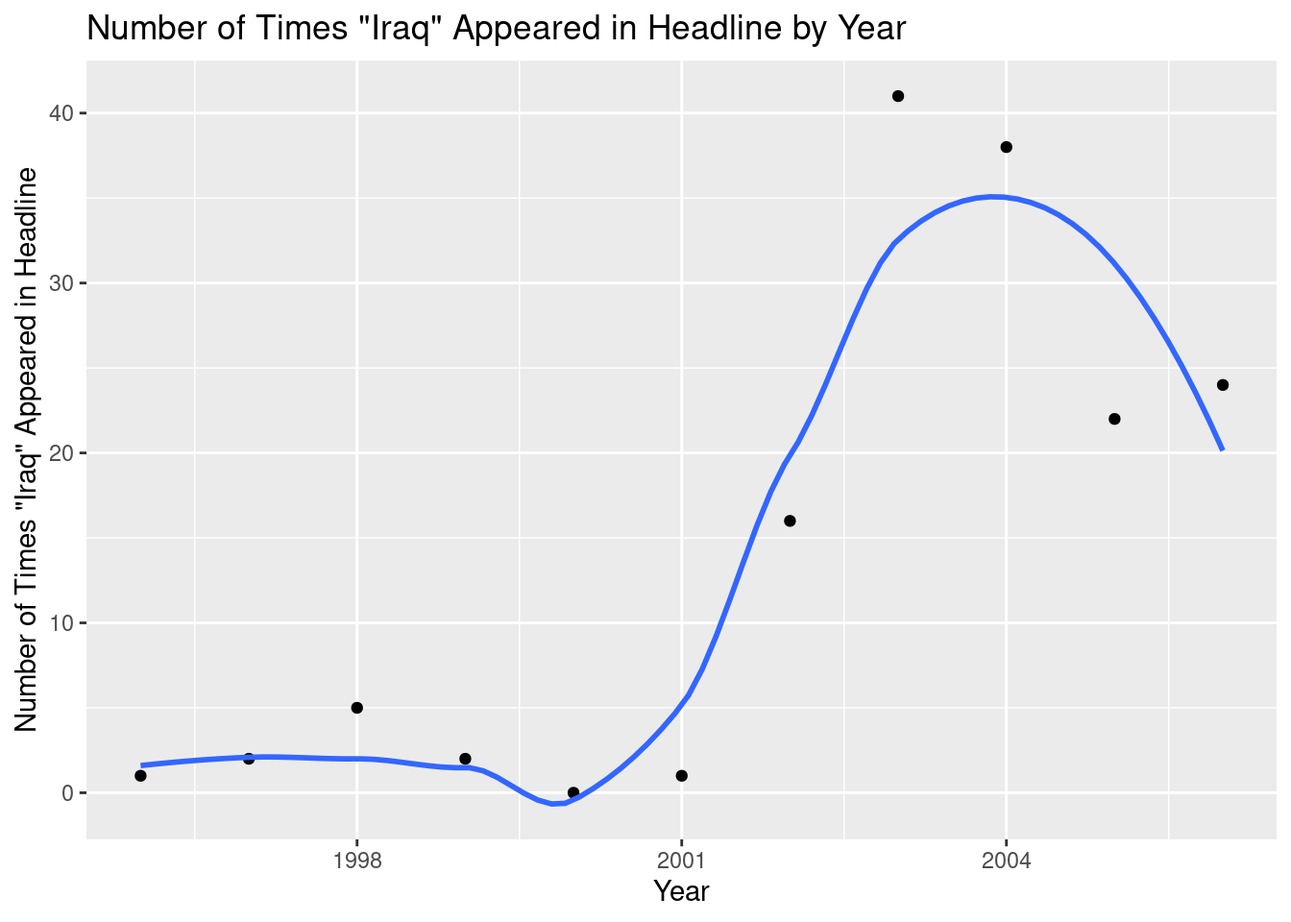
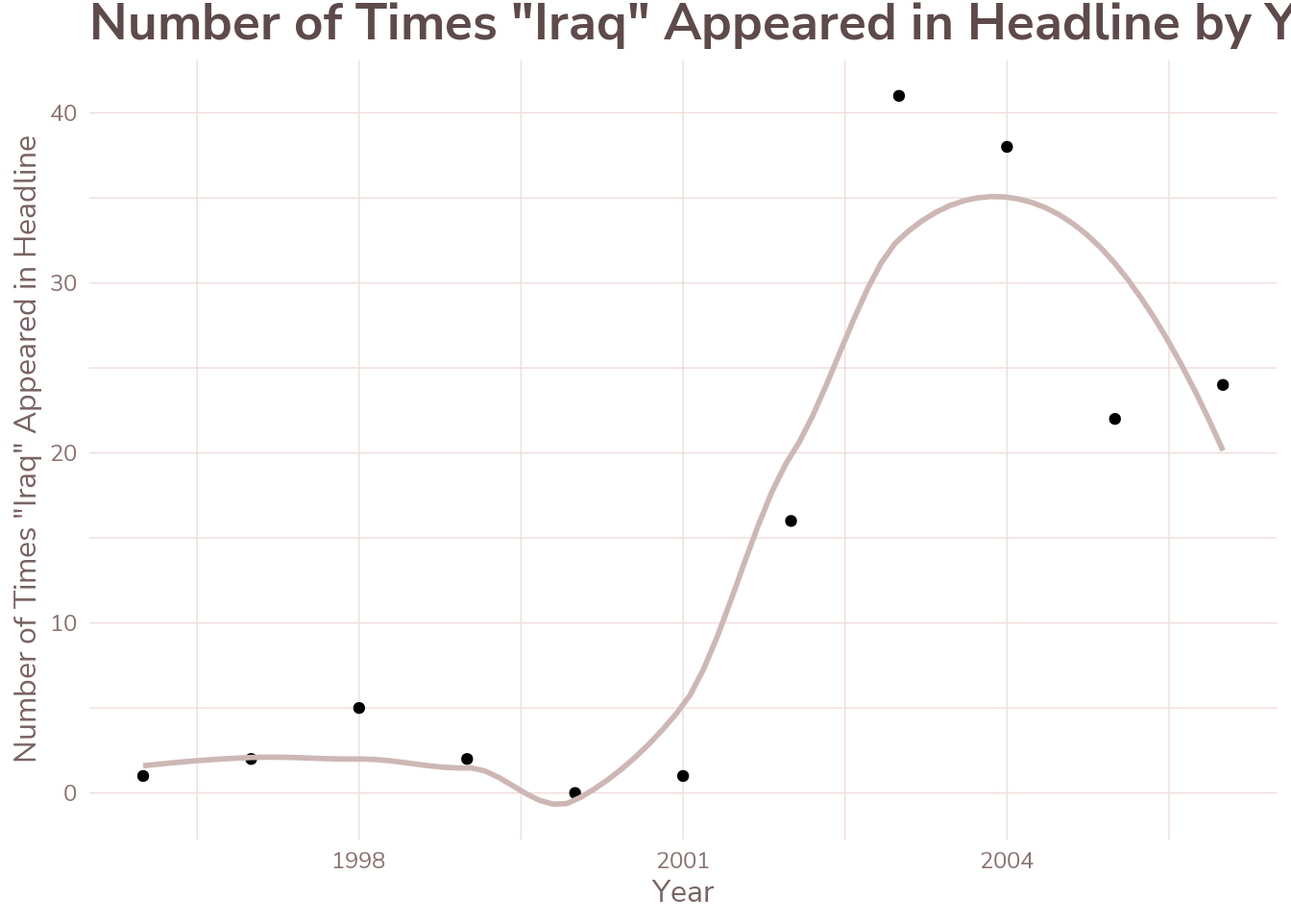
committ

diff --git a/docs/nytheadlines.html b/docs/nytheadlines.html
@@ -8,9 +8,9 @@
 
 <meta name="author" content="Anjali Suva">
 <meta name="dcterms.date" content="2025-10-06">
-<meta name="description" content="Analysis of NYTimes headlines from 1996 to 2005">
+<meta name="description" content="Analysis of NYT headlines from 1996 to 2005">
 
-<title>NYTimes Headlines – Anjali Suva</title>
+<title>NYT Headlines – Anjali Suva</title>
 <style>
 code{white-space: pre-wrap;}
 span.smallcaps{font-variant: small-caps;}
@@ -183,12 +183,12 @@ pre > code.sourceCode > span > a:first-child::before { text-decoration: underlin
 
 <header id="title-block-header" class="quarto-title-block default">
 <div class="quarto-title">
-<h1 class="title">NYTimes Headlines</h1>
+<h1 class="title">NYT Headlines</h1>
 </div>
 
 <div>
   <div class="description">
-    <p>Analysis of NYTimes headlines from 1996 to 2005</p>
+    <p>Analysis of NYT headlines from 1996 to 2005</p>
   </div>
 </div>
 
@@ -217,12 +217,17 @@ pre > code.sourceCode > span > a:first-child::before { text-decoration: underlin
 </header>
 
 
+<p>For this project, I used a data set containing containing string data to see if any interesting patterns could be identified by isolating text within the data set. The data set I used had headlines from The New York Times from 1996 to 2005, compiled by Professor Amber E. Boydstun at UC Davis. The data can be accessed through the RTextTools R package.</p>
 <div class="cell">
-<div class="sourceCode cell-code" id="cb1"><pre class="sourceCode r code-with-copy"><code class="sourceCode r"><span id="cb1-1"><a href="#cb1-1" aria-hidden="true" tabindex="-1"></a><span class="fu">library</span>(RTextTools) </span>
-<span id="cb1-2"><a href="#cb1-2" aria-hidden="true" tabindex="-1"></a><span class="fu">library</span>(tidyverse)</span>
-<span id="cb1-3"><a href="#cb1-3" aria-hidden="true" tabindex="-1"></a></span>
-<span id="cb1-4"><a href="#cb1-4" aria-hidden="true" tabindex="-1"></a><span class="fu">data</span>(NYTimes)</span>
-<span id="cb1-5"><a href="#cb1-5" aria-hidden="true" tabindex="-1"></a><span class="fu">as_tibble</span>(NYTimes)</span></code><button title="Copy to Clipboard" class="code-copy-button"><i class="bi"></i></button></pre></div>
+<details class="code-fold">
+<summary>Show the code</summary>
+<div class="sourceCode cell-code" id="cb1"><pre class="sourceCode r code-with-copy"><code class="sourceCode r"><span id="cb1-1"><a href="#cb1-1" aria-hidden="true" tabindex="-1"></a><span class="co">#load R packages + data</span></span>
+<span id="cb1-2"><a href="#cb1-2" aria-hidden="true" tabindex="-1"></a><span class="fu">library</span>(RTextTools) </span>
+<span id="cb1-3"><a href="#cb1-3" aria-hidden="true" tabindex="-1"></a><span class="fu">library</span>(tidyverse)</span>
+<span id="cb1-4"><a href="#cb1-4" aria-hidden="true" tabindex="-1"></a></span>
+<span id="cb1-5"><a href="#cb1-5" aria-hidden="true" tabindex="-1"></a><span class="fu">data</span>(NYTimes)</span>
+<span id="cb1-6"><a href="#cb1-6" aria-hidden="true" tabindex="-1"></a><span class="fu">as_tibble</span>(NYTimes)</span></code><button title="Copy to Clipboard" class="code-copy-button"><i class="bi"></i></button></pre></div>
+</details>
 <div class="cell-output cell-output-stdout">
 <pre><code># A tibble: 3,104 × 5
    Article_ID Date      Title                                 Subject Topic.Code
@@ -240,14 +245,15 @@ pre > code.sourceCode > span > a:first-child::before { text-decoration: underlin
 # ℹ 3,094 more rows</code></pre>
 </div>
 </div>
-<p>With the increase in citizens obtaining their news online, I wondered if the title length for articles had shortened over time to fit these new mediums. For my first question, I wanted to investigate whether or not the average length of New York Times article titles has changed over time.</p>
-<p>In order to do this analysis, I used str_length to obtain the number of characters in each article title.</p>
-<p><br>
+<p>Since the time period in this data set coincides with the surge in popularity of the World Wide Web, I wondered if major news outlets began placing their articles online during these years. For my first question, I wanted to investigate whether or not the average length of New York Times article titles changed over time to fit the new medium.</p>
+<p>In order to do this analysis, I used str_length to obtain the number of characters in each article title.<br>
 </p>
 <div class="cell">
+<details class="code-fold">
+<summary>Show the code</summary>
 <div class="sourceCode cell-code" id="cb3"><pre class="sourceCode r code-with-copy"><code class="sourceCode r"><span id="cb3-1"><a href="#cb3-1" aria-hidden="true" tabindex="-1"></a><span class="fu">library</span>(lubridate)</span>
 <span id="cb3-2"><a href="#cb3-2" aria-hidden="true" tabindex="-1"></a></span>
-<span id="cb3-3"><a href="#cb3-3" aria-hidden="true" tabindex="-1"></a></span>
+<span id="cb3-3"><a href="#cb3-3" aria-hidden="true" tabindex="-1"></a><span class="co">#create df for average length of nyt article titles </span></span>
 <span id="cb3-4"><a href="#cb3-4" aria-hidden="true" tabindex="-1"></a>AvgTitleLength <span class="ot">&lt;-</span> NYTimes <span class="sc">|&gt;</span></span>
 <span id="cb3-5"><a href="#cb3-5" aria-hidden="true" tabindex="-1"></a>  <span class="fu">mutate</span>(<span class="at">TitleLength =</span> <span class="fu">str_length</span>(Title), </span>
 <span id="cb3-6"><a href="#cb3-6" aria-hidden="true" tabindex="-1"></a>         <span class="at">Year =</span> <span class="fu">year</span>(<span class="fu">dmy</span>(Date))) <span class="sc">|&gt;</span></span>
@@ -256,6 +262,7 @@ pre > code.sourceCode > span > a:first-child::before { text-decoration: underlin
 <span id="cb3-9"><a href="#cb3-9" aria-hidden="true" tabindex="-1"></a>  <span class="fu">select</span>(Year, AvgTitleLength)</span>
 <span id="cb3-10"><a href="#cb3-10" aria-hidden="true" tabindex="-1"></a></span>
 <span id="cb3-11"><a href="#cb3-11" aria-hidden="true" tabindex="-1"></a><span class="fu">as_tibble</span>(AvgTitleLength)</span></code><button title="Copy to Clipboard" class="code-copy-button"><i class="bi"></i></button></pre></div>
+</details>
 <div class="cell-output cell-output-stdout">
 <pre><code># A tibble: 11 × 2
     Year AvgTitleLength
@@ -274,32 +281,43 @@ pre > code.sourceCode > span > a:first-child::before { text-decoration: underlin
 </div>
 </div>
 <div class="cell">
-<div class="sourceCode cell-code" id="cb5"><pre class="sourceCode r code-with-copy"><code class="sourceCode r"><span id="cb5-1"><a href="#cb5-1" aria-hidden="true" tabindex="-1"></a><span class="fu">library</span>(ggplot2)</span>
-<span id="cb5-2"><a href="#cb5-2" aria-hidden="true" tabindex="-1"></a></span>
-<span id="cb5-3"><a href="#cb5-3" aria-hidden="true" tabindex="-1"></a><span class="fu">ggplot</span>(AvgTitleLength, <span class="fu">aes</span>(<span class="at">x =</span> Year, <span class="at">y =</span> AvgTitleLength)) <span class="sc">+</span></span>
-<span id="cb5-4"><a href="#cb5-4" aria-hidden="true" tabindex="-1"></a>  <span class="fu">geom_col</span>() <span class="sc">+</span></span>
-<span id="cb5-5"><a href="#cb5-5" aria-hidden="true" tabindex="-1"></a>  <span class="fu">labs</span>(<span class="at">title =</span> <span class="st">"Average NYTimes Article Title Length by Year"</span>,</span>
-<span id="cb5-6"><a href="#cb5-6" aria-hidden="true" tabindex="-1"></a>       <span class="at">x =</span> <span class="st">"Year"</span>,</span>
-<span id="cb5-7"><a href="#cb5-7" aria-hidden="true" tabindex="-1"></a>       <span class="at">y =</span> <span class="st">"Average Title Length (in characters)"</span>)</span></code><button title="Copy to Clipboard" class="code-copy-button"><i class="bi"></i></button></pre></div>
+<details class="code-fold">
+<summary>Show the code</summary>
+<div class="sourceCode cell-code" id="cb5"><pre class="sourceCode r code-with-copy"><code class="sourceCode r"><span id="cb5-1"><a href="#cb5-1" aria-hidden="true" tabindex="-1"></a><span class="co">#loading ggplot and my custom theme</span></span>
+<span id="cb5-2"><a href="#cb5-2" aria-hidden="true" tabindex="-1"></a><span class="fu">library</span>(ggplot2)</span>
+<span id="cb5-3"><a href="#cb5-3" aria-hidden="true" tabindex="-1"></a><span class="fu">source</span>(<span class="st">"R/theme_asuva.R"</span>)</span>
+<span id="cb5-4"><a href="#cb5-4" aria-hidden="true" tabindex="-1"></a></span>
+<span id="cb5-5"><a href="#cb5-5" aria-hidden="true" tabindex="-1"></a><span class="co">#create bar chart of avg NYT article title length </span></span>
+<span id="cb5-6"><a href="#cb5-6" aria-hidden="true" tabindex="-1"></a><span class="fu">ggplot</span>(AvgTitleLength, <span class="fu">aes</span>(<span class="at">x =</span> Year, <span class="at">y =</span> AvgTitleLength)) <span class="sc">+</span></span>
+<span id="cb5-7"><a href="#cb5-7" aria-hidden="true" tabindex="-1"></a>  <span class="fu">geom_col</span>(<span class="at">fill =</span> <span class="st">"mistyrose3"</span>) <span class="sc">+</span></span>
+<span id="cb5-8"><a href="#cb5-8" aria-hidden="true" tabindex="-1"></a>  <span class="fu">labs</span>(<span class="at">title =</span> <span class="st">"Average NYTimes Article Title Length by Year"</span>,</span>
+<span id="cb5-9"><a href="#cb5-9" aria-hidden="true" tabindex="-1"></a>       <span class="at">x =</span> <span class="st">"Year"</span>,</span>
+<span id="cb5-10"><a href="#cb5-10" aria-hidden="true" tabindex="-1"></a>       <span class="at">y =</span> <span class="st">"Average Title Length (in characters)"</span>) <span class="sc">+</span></span>
+<span id="cb5-11"><a href="#cb5-11" aria-hidden="true" tabindex="-1"></a>  <span class="fu">theme_asuva</span>()</span></code><button title="Copy to Clipboard" class="code-copy-button"><i class="bi"></i></button></pre></div>
+</details>
 <div class="cell-output-display">
 <div>
 <figure class="figure">
-<p><img src="nytheadlines_files/figure-html/unnamed-chunk-3-1.png" class="img-fluid figure-img" width="672"></p>
+<p><img src="nytheadlines_files/figure-html/unnamed-chunk-3-1.png" class="img-fluid figure-img" alt="Bar chart of average NYT article title length by year, from 1996 to 2005." width="672"></p>
 </figure>
 </div>
 </div>
 </div>
 <p>From the graph above, it is clear that there is not much of a trend in the average title length over time. From 1996 to 2005, the average length of NYTimes article titles have been between 40 to 57 characters. The average length tends to fluctuate by each year, but there aren’t enough years in the data set to identify a concrete downward trend in the length of the titles.</p>
-<p>Taking the limited sample size for year into account, I wanted to search for something more specific—a trend that was more likely to show up on a graph. Since the years included on the dataset were from the range 1996-2005, I was interested in the number of times “Iraq” was mentioned in a headline, considering that the Iraq War began in 2003. I predict that there would be a sharp upturn in the number of times Iraq was mentioned after 2001, with 2003 being the year when it was mentioned the most.</p>
-<p>In order to do this analysis, I used str_detect along with the regular expression (?i) to account for capitalized vs.&nbsp;non-capitalized headlines in the dataset.</p>
+<p>Taking the limited sample size for year into account, I wanted to search for something more specific—a trend that was more likely to show up on a graph. Since the years included on the data set were from the range 1996-2005, I was interested in the number of times “Iraq” was mentioned in a headline, considering that the Iraq War began in 2003. I predict that there would be a sharp upturn in the number of times Iraq was mentioned after 2001, with 2003 being the year when it was mentioned the most.</p>
+<p>In order to do this analysis, I used str_detect along with the regular expression (?i) to account for capitalized vs.&nbsp;non-capitalized headlines in the data set.</p>
 <div class="cell">
-<div class="sourceCode cell-code" id="cb6"><pre class="sourceCode r code-with-copy"><code class="sourceCode r"><span id="cb6-1"><a href="#cb6-1" aria-hidden="true" tabindex="-1"></a>IraqHeadlines <span class="ot">&lt;-</span> NYTimes <span class="sc">|&gt;</span> </span>
-<span id="cb6-2"><a href="#cb6-2" aria-hidden="true" tabindex="-1"></a>  <span class="fu">mutate</span>(<span class="at">Year =</span> <span class="fu">year</span>(<span class="fu">dmy</span>(Date))) <span class="sc">|&gt;</span></span>
-<span id="cb6-3"><a href="#cb6-3" aria-hidden="true" tabindex="-1"></a>  <span class="fu">group_by</span>(Year) <span class="sc">|&gt;</span></span>
-<span id="cb6-4"><a href="#cb6-4" aria-hidden="true" tabindex="-1"></a>  <span class="fu">summarize</span>(<span class="at">IraqinTitle =</span> <span class="fu">sum</span>(<span class="fu">str_detect</span>(Title, <span class="st">"(?i)Iraq"</span>))) <span class="sc">|&gt;</span></span>
-<span id="cb6-5"><a href="#cb6-5" aria-hidden="true" tabindex="-1"></a>  <span class="fu">select</span>(Year, IraqinTitle)</span>
-<span id="cb6-6"><a href="#cb6-6" aria-hidden="true" tabindex="-1"></a></span>
-<span id="cb6-7"><a href="#cb6-7" aria-hidden="true" tabindex="-1"></a><span class="fu">as_tibble</span>(IraqHeadlines)</span></code><button title="Copy to Clipboard" class="code-copy-button"><i class="bi"></i></button></pre></div>
+<details class="code-fold">
+<summary>Show the code</summary>
+<div class="sourceCode cell-code" id="cb6"><pre class="sourceCode r code-with-copy"><code class="sourceCode r"><span id="cb6-1"><a href="#cb6-1" aria-hidden="true" tabindex="-1"></a><span class="co">#create tibble of number of times Iraq appeared in headline title</span></span>
+<span id="cb6-2"><a href="#cb6-2" aria-hidden="true" tabindex="-1"></a>IraqHeadlines <span class="ot">&lt;-</span> NYTimes <span class="sc">|&gt;</span> </span>
+<span id="cb6-3"><a href="#cb6-3" aria-hidden="true" tabindex="-1"></a>  <span class="fu">mutate</span>(<span class="at">Year =</span> <span class="fu">year</span>(<span class="fu">dmy</span>(Date))) <span class="sc">|&gt;</span></span>
+<span id="cb6-4"><a href="#cb6-4" aria-hidden="true" tabindex="-1"></a>  <span class="fu">group_by</span>(Year) <span class="sc">|&gt;</span></span>
+<span id="cb6-5"><a href="#cb6-5" aria-hidden="true" tabindex="-1"></a>  <span class="fu">summarize</span>(<span class="at">IraqinTitle =</span> <span class="fu">sum</span>(<span class="fu">str_detect</span>(Title, <span class="st">"(?i)Iraq"</span>))) <span class="sc">|&gt;</span></span>
+<span id="cb6-6"><a href="#cb6-6" aria-hidden="true" tabindex="-1"></a>  <span class="fu">select</span>(Year, IraqinTitle)</span>
+<span id="cb6-7"><a href="#cb6-7" aria-hidden="true" tabindex="-1"></a></span>
+<span id="cb6-8"><a href="#cb6-8" aria-hidden="true" tabindex="-1"></a><span class="fu">as_tibble</span>(IraqHeadlines)</span></code><button title="Copy to Clipboard" class="code-copy-button"><i class="bi"></i></button></pre></div>
+</details>
 <div class="cell-output cell-output-stdout">
 <pre><code># A tibble: 11 × 2
     Year IraqinTitle
@@ -318,16 +336,21 @@ pre > code.sourceCode > span > a:first-child::before { text-decoration: underlin
 </div>
 </div>
 <div class="cell">
-<div class="sourceCode cell-code" id="cb8"><pre class="sourceCode r code-with-copy"><code class="sourceCode r"><span id="cb8-1"><a href="#cb8-1" aria-hidden="true" tabindex="-1"></a><span class="fu">ggplot</span>(IraqHeadlines, <span class="fu">aes</span>(<span class="at">x =</span> Year, <span class="at">y =</span> IraqinTitle)) <span class="sc">+</span></span>
-<span id="cb8-2"><a href="#cb8-2" aria-hidden="true" tabindex="-1"></a>  <span class="fu">geom_point</span>() <span class="sc">+</span></span>
-<span id="cb8-3"><a href="#cb8-3" aria-hidden="true" tabindex="-1"></a>  <span class="fu">geom_smooth</span>(<span class="at">se =</span> <span class="cn">FALSE</span>) <span class="sc">+</span></span>
-<span id="cb8-4"><a href="#cb8-4" aria-hidden="true" tabindex="-1"></a>  <span class="fu">labs</span>(<span class="at">title =</span> <span class="st">"Number of Times </span><span class="sc">\"</span><span class="st">Iraq</span><span class="sc">\"</span><span class="st"> Appeared in Headline by Year"</span>,</span>
-<span id="cb8-5"><a href="#cb8-5" aria-hidden="true" tabindex="-1"></a>       <span class="at">x =</span> <span class="st">"Year"</span>,</span>
-<span id="cb8-6"><a href="#cb8-6" aria-hidden="true" tabindex="-1"></a>       <span class="at">y =</span> <span class="st">"Number of Times </span><span class="sc">\"</span><span class="st">Iraq</span><span class="sc">\"</span><span class="st"> Appeared in Headline"</span>)</span></code><button title="Copy to Clipboard" class="code-copy-button"><i class="bi"></i></button></pre></div>
+<details class="code-fold">
+<summary>Show the code</summary>
+<div class="sourceCode cell-code" id="cb8"><pre class="sourceCode r code-with-copy"><code class="sourceCode r"><span id="cb8-1"><a href="#cb8-1" aria-hidden="true" tabindex="-1"></a><span class="co">#graph previous tibble</span></span>
+<span id="cb8-2"><a href="#cb8-2" aria-hidden="true" tabindex="-1"></a><span class="fu">ggplot</span>(IraqHeadlines, <span class="fu">aes</span>(<span class="at">x =</span> Year, <span class="at">y =</span> IraqinTitle)) <span class="sc">+</span></span>
+<span id="cb8-3"><a href="#cb8-3" aria-hidden="true" tabindex="-1"></a>  <span class="fu">geom_point</span>() <span class="sc">+</span></span>
+<span id="cb8-4"><a href="#cb8-4" aria-hidden="true" tabindex="-1"></a>  <span class="fu">geom_smooth</span>(<span class="at">se =</span> <span class="cn">FALSE</span>, <span class="at">color =</span> <span class="st">"mistyrose3"</span>) <span class="sc">+</span></span>
+<span id="cb8-5"><a href="#cb8-5" aria-hidden="true" tabindex="-1"></a>  <span class="fu">labs</span>(<span class="at">title =</span> <span class="st">"Number of Times </span><span class="sc">\"</span><span class="st">Iraq</span><span class="sc">\"</span><span class="st"> Appeared in Headline by Year"</span>,</span>
+<span id="cb8-6"><a href="#cb8-6" aria-hidden="true" tabindex="-1"></a>       <span class="at">x =</span> <span class="st">"Year"</span>,</span>
+<span id="cb8-7"><a href="#cb8-7" aria-hidden="true" tabindex="-1"></a>       <span class="at">y =</span> <span class="st">"Number of Times </span><span class="sc">\"</span><span class="st">Iraq</span><span class="sc">\"</span><span class="st"> Appeared in Headline"</span>) <span class="sc">+</span></span>
+<span id="cb8-8"><a href="#cb8-8" aria-hidden="true" tabindex="-1"></a>  <span class="fu">theme_asuva</span>()</span></code><button title="Copy to Clipboard" class="code-copy-button"><i class="bi"></i></button></pre></div>
+</details>
 <div class="cell-output-display">
 <div>
 <figure class="figure">
-<p><img src="nytheadlines_files/figure-html/unnamed-chunk-5-1.png" class="img-fluid figure-img" width="672"></p>
+<p><img src="nytheadlines_files/figure-html/unnamed-chunk-5-1.png" class="img-fluid figure-img" alt="Line chart of number of times 'Iraq' Appeared in NYT headlines by year, from 1996 to 2005." width="672"></p>
 </figure>
 </div>
 </div>
@@ -336,17 +359,21 @@ pre > code.sourceCode > span > a:first-child::before { text-decoration: underlin
 <p>Since the previous plot yielded expected results, I wondered how else I could utilize key words within the data set. While parsing through some of the headlines in the original NYTimes dataset, I noticed that certain titles would begin with a key word/phrase and a colon. For example, take this title from the dataset, “CRASH IN THE BALKANS: THE RESCUE; A Storm-Swept Mountain’s Grim Story.” The phrase “CRASH IN THE BALKANS” serves as a signifier to introduce the main subject matter of the story. I wanted to see how many of these key words or phrases existed within the data set.</p>
 <p>To do this analysis, I used str_detect to filter for rows with colons and str_extract with a lookahead to extract everything up to the colon.</p>
 <div class="cell">
-<div class="sourceCode cell-code" id="cb9"><pre class="sourceCode r code-with-copy"><code class="sourceCode r"><span id="cb9-1"><a href="#cb9-1" aria-hidden="true" tabindex="-1"></a>KeyPhrasesinTitle <span class="ot">&lt;-</span> NYTimes <span class="sc">|&gt;</span></span>
-<span id="cb9-2"><a href="#cb9-2" aria-hidden="true" tabindex="-1"></a>  <span class="fu">filter</span>(<span class="fu">str_detect</span>(Title, <span class="st">":"</span>)) <span class="sc">|&gt;</span></span>
-<span id="cb9-3"><a href="#cb9-3" aria-hidden="true" tabindex="-1"></a>  <span class="fu">mutate</span>(<span class="at">KeyPhrase =</span> <span class="fu">str_extract</span>(Title, <span class="st">".+(?=:)"</span>)) <span class="sc">|&gt;</span></span>
-<span id="cb9-4"><a href="#cb9-4" aria-hidden="true" tabindex="-1"></a>  <span class="fu">filter</span>(<span class="sc">!</span><span class="fu">is.na</span>(KeyPhrase)) <span class="sc">|&gt;</span></span>
-<span id="cb9-5"><a href="#cb9-5" aria-hidden="true" tabindex="-1"></a>  <span class="fu">group_by</span>(KeyPhrase) <span class="sc">|&gt;</span></span>
-<span id="cb9-6"><a href="#cb9-6" aria-hidden="true" tabindex="-1"></a>  <span class="fu">summarize</span>(<span class="at">KeyPhraseTotal =</span> <span class="fu">n</span>()) <span class="sc">|&gt;</span></span>
-<span id="cb9-7"><a href="#cb9-7" aria-hidden="true" tabindex="-1"></a>  <span class="fu">select</span>(KeyPhrase, KeyPhraseTotal) <span class="sc">|&gt;</span></span>
-<span id="cb9-8"><a href="#cb9-8" aria-hidden="true" tabindex="-1"></a>  <span class="fu">arrange</span>(<span class="fu">desc</span>(KeyPhraseTotal))</span>
-<span id="cb9-9"><a href="#cb9-9" aria-hidden="true" tabindex="-1"></a></span>
+<details class="code-fold">
+<summary>Show the code</summary>
+<div class="sourceCode cell-code" id="cb9"><pre class="sourceCode r code-with-copy"><code class="sourceCode r"><span id="cb9-1"><a href="#cb9-1" aria-hidden="true" tabindex="-1"></a><span class="co">#create df to extract key words in title </span></span>
+<span id="cb9-2"><a href="#cb9-2" aria-hidden="true" tabindex="-1"></a>KeyPhrasesinTitle <span class="ot">&lt;-</span> NYTimes <span class="sc">|&gt;</span></span>
+<span id="cb9-3"><a href="#cb9-3" aria-hidden="true" tabindex="-1"></a>  <span class="fu">filter</span>(<span class="fu">str_detect</span>(Title, <span class="st">":"</span>)) <span class="sc">|&gt;</span></span>
+<span id="cb9-4"><a href="#cb9-4" aria-hidden="true" tabindex="-1"></a>  <span class="fu">mutate</span>(<span class="at">KeyPhrase =</span> <span class="fu">str_extract</span>(Title, <span class="st">".+(?=:)"</span>)) <span class="sc">|&gt;</span></span>
+<span id="cb9-5"><a href="#cb9-5" aria-hidden="true" tabindex="-1"></a>  <span class="fu">filter</span>(<span class="sc">!</span><span class="fu">is.na</span>(KeyPhrase)) <span class="sc">|&gt;</span></span>
+<span id="cb9-6"><a href="#cb9-6" aria-hidden="true" tabindex="-1"></a>  <span class="fu">group_by</span>(KeyPhrase) <span class="sc">|&gt;</span></span>
+<span id="cb9-7"><a href="#cb9-7" aria-hidden="true" tabindex="-1"></a>  <span class="fu">summarize</span>(<span class="at">KeyPhraseTotal =</span> <span class="fu">n</span>()) <span class="sc">|&gt;</span></span>
+<span id="cb9-8"><a href="#cb9-8" aria-hidden="true" tabindex="-1"></a>  <span class="fu">select</span>(KeyPhrase, KeyPhraseTotal) <span class="sc">|&gt;</span></span>
+<span id="cb9-9"><a href="#cb9-9" aria-hidden="true" tabindex="-1"></a>  <span class="fu">arrange</span>(<span class="fu">desc</span>(KeyPhraseTotal))</span>
 <span id="cb9-10"><a href="#cb9-10" aria-hidden="true" tabindex="-1"></a></span>
-<span id="cb9-11"><a href="#cb9-11" aria-hidden="true" tabindex="-1"></a><span class="fu">as_tibble</span>(KeyPhrasesinTitle)</span></code><button title="Copy to Clipboard" class="code-copy-button"><i class="bi"></i></button></pre></div>
+<span id="cb9-11"><a href="#cb9-11" aria-hidden="true" tabindex="-1"></a></span>
+<span id="cb9-12"><a href="#cb9-12" aria-hidden="true" tabindex="-1"></a><span class="fu">as_tibble</span>(KeyPhrasesinTitle)</span></code><button title="Copy to Clipboard" class="code-copy-button"><i class="bi"></i></button></pre></div>
+</details>
 <div class="cell-output cell-output-stdout">
 <pre><code># A tibble: 265 × 2
    KeyPhrase              KeyPhraseTotal
@@ -368,17 +395,21 @@ pre > code.sourceCode > span > a:first-child::before { text-decoration: underlin
 <p>While examining the new table, I wondered if I could filter the data even more so I could find key words in the title (as opposed to phrases). For example “POLITICS” is one of the most common introductory words in the titles of articles, with 21 instances of it occurring.</p>
 <p>In order to do this analysis, I slightly altered the code above to account for only words as opposed to words and phrases. To do this, I used the regular expressions of “^” and “\w” to filter for rows that started with a word followed directly by a colon.</p>
 <div class="cell">
-<div class="sourceCode cell-code" id="cb11"><pre class="sourceCode r code-with-copy"><code class="sourceCode r"><span id="cb11-1"><a href="#cb11-1" aria-hidden="true" tabindex="-1"></a>KeyWordsinTitle <span class="ot">&lt;-</span> NYTimes <span class="sc">|&gt;</span></span>
-<span id="cb11-2"><a href="#cb11-2" aria-hidden="true" tabindex="-1"></a>  <span class="fu">filter</span>(<span class="fu">str_detect</span>(Title, <span class="st">"^</span><span class="sc">\\</span><span class="st">w+:"</span>)) <span class="sc">|&gt;</span></span>
-<span id="cb11-3"><a href="#cb11-3" aria-hidden="true" tabindex="-1"></a>  <span class="fu">mutate</span>(<span class="at">KeyWord =</span> <span class="fu">str_extract</span>(Title, <span class="st">"^</span><span class="sc">\\</span><span class="st">w+(?=:)"</span>)) <span class="sc">|&gt;</span></span>
-<span id="cb11-4"><a href="#cb11-4" aria-hidden="true" tabindex="-1"></a>  <span class="fu">filter</span>(<span class="sc">!</span><span class="fu">is.na</span>(KeyWord)) <span class="sc">|&gt;</span></span>
-<span id="cb11-5"><a href="#cb11-5" aria-hidden="true" tabindex="-1"></a>  <span class="fu">group_by</span>(KeyWord) <span class="sc">|&gt;</span></span>
-<span id="cb11-6"><a href="#cb11-6" aria-hidden="true" tabindex="-1"></a>  <span class="fu">summarize</span>(<span class="at">KeyWordTotal =</span> <span class="fu">n</span>()) <span class="sc">|&gt;</span></span>
-<span id="cb11-7"><a href="#cb11-7" aria-hidden="true" tabindex="-1"></a>  <span class="fu">select</span>(KeyWord, KeyWordTotal) <span class="sc">|&gt;</span></span>
-<span id="cb11-8"><a href="#cb11-8" aria-hidden="true" tabindex="-1"></a>  <span class="fu">arrange</span>(<span class="fu">desc</span>(KeyWordTotal))</span>
-<span id="cb11-9"><a href="#cb11-9" aria-hidden="true" tabindex="-1"></a></span>
+<details class="code-fold">
+<summary>Show the code</summary>
+<div class="sourceCode cell-code" id="cb11"><pre class="sourceCode r code-with-copy"><code class="sourceCode r"><span id="cb11-1"><a href="#cb11-1" aria-hidden="true" tabindex="-1"></a><span class="co">#filter data to find key introductory words in the title </span></span>
+<span id="cb11-2"><a href="#cb11-2" aria-hidden="true" tabindex="-1"></a>KeyWordsinTitle <span class="ot">&lt;-</span> NYTimes <span class="sc">|&gt;</span></span>
+<span id="cb11-3"><a href="#cb11-3" aria-hidden="true" tabindex="-1"></a>  <span class="fu">filter</span>(<span class="fu">str_detect</span>(Title, <span class="st">"^</span><span class="sc">\\</span><span class="st">w+:"</span>)) <span class="sc">|&gt;</span></span>
+<span id="cb11-4"><a href="#cb11-4" aria-hidden="true" tabindex="-1"></a>  <span class="fu">mutate</span>(<span class="at">KeyWord =</span> <span class="fu">str_extract</span>(Title, <span class="st">"^</span><span class="sc">\\</span><span class="st">w+(?=:)"</span>)) <span class="sc">|&gt;</span></span>
+<span id="cb11-5"><a href="#cb11-5" aria-hidden="true" tabindex="-1"></a>  <span class="fu">filter</span>(<span class="sc">!</span><span class="fu">is.na</span>(KeyWord)) <span class="sc">|&gt;</span></span>
+<span id="cb11-6"><a href="#cb11-6" aria-hidden="true" tabindex="-1"></a>  <span class="fu">group_by</span>(KeyWord) <span class="sc">|&gt;</span></span>
+<span id="cb11-7"><a href="#cb11-7" aria-hidden="true" tabindex="-1"></a>  <span class="fu">summarize</span>(<span class="at">KeyWordTotal =</span> <span class="fu">n</span>()) <span class="sc">|&gt;</span></span>
+<span id="cb11-8"><a href="#cb11-8" aria-hidden="true" tabindex="-1"></a>  <span class="fu">select</span>(KeyWord, KeyWordTotal) <span class="sc">|&gt;</span></span>
+<span id="cb11-9"><a href="#cb11-9" aria-hidden="true" tabindex="-1"></a>  <span class="fu">arrange</span>(<span class="fu">desc</span>(KeyWordTotal))</span>
 <span id="cb11-10"><a href="#cb11-10" aria-hidden="true" tabindex="-1"></a></span>
-<span id="cb11-11"><a href="#cb11-11" aria-hidden="true" tabindex="-1"></a><span class="fu">as_tibble</span>(KeyWordsinTitle)</span></code><button title="Copy to Clipboard" class="code-copy-button"><i class="bi"></i></button></pre></div>
+<span id="cb11-11"><a href="#cb11-11" aria-hidden="true" tabindex="-1"></a></span>
+<span id="cb11-12"><a href="#cb11-12" aria-hidden="true" tabindex="-1"></a><span class="fu">as_tibble</span>(KeyWordsinTitle)</span></code><button title="Copy to Clipboard" class="code-copy-button"><i class="bi"></i></button></pre></div>
+</details>
 <div class="cell-output cell-output-stdout">
 <pre><code># A tibble: 8 × 2
   KeyWord      KeyWordTotal
@@ -394,7 +425,7 @@ pre > code.sourceCode > span > a:first-child::before { text-decoration: underlin
 </div>
 </div>
 <p>After doing that, I was able to view the key introductory words that were used in the titles of the headlines, which fit neatly into this 8 row table. Unsurprisingly, the most popular key word was “POLITICS”, which was easily predictable simply by examining the previous table.</p>
-<p>Credits:</p>
+<p><u>Credits:</u></p>
 <p><strong>Data:</strong> RTextTools R package: <a href="https://cran.r-project.org/package=RTextTools">https://CRAN.R-project.org/package=RTextTools</a></p>
 <p><strong>Original Source:</strong> Headlines from The New York Times, compiled by Professor Amber E. Boydstun at the University of California, Davis, <a href="https://www.amber-boydstun.com/supplementary-information-for-making-the-news.html" class="uri">https://www.amber-boydstun.com/supplementary-information-for-making-the-news.html</a>.</p>
 
